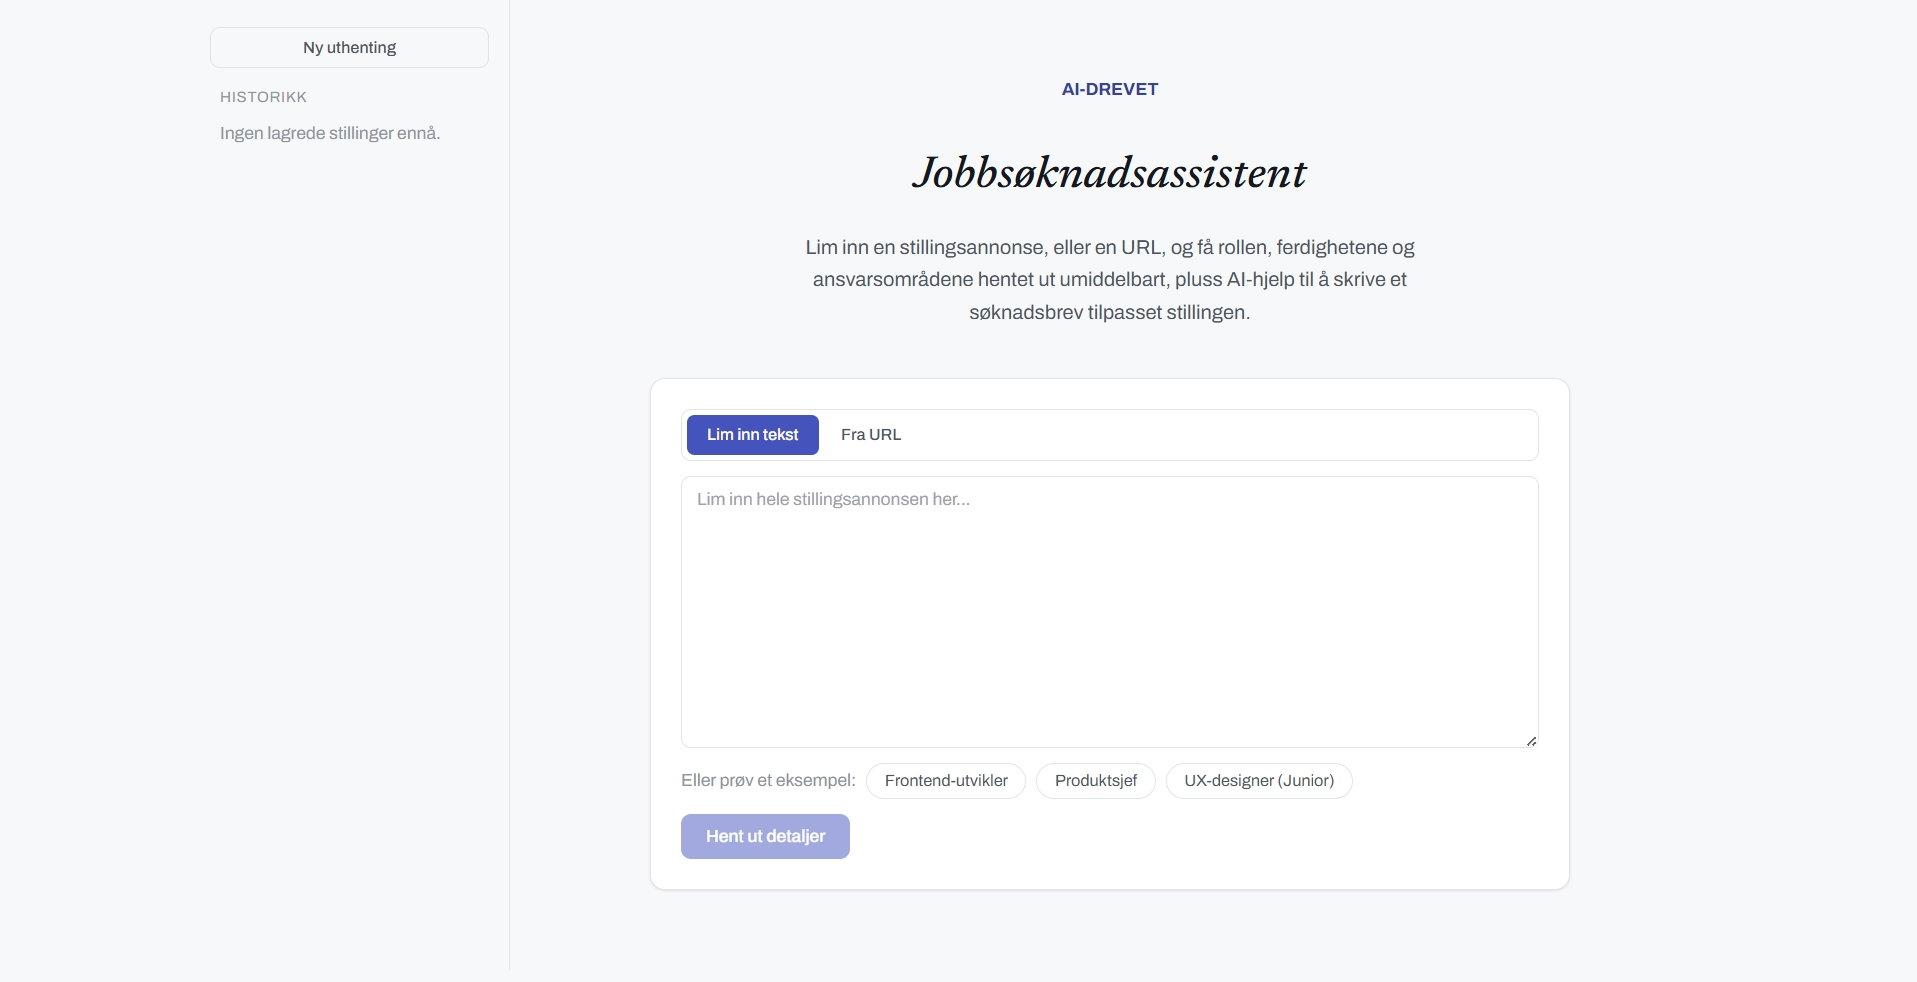
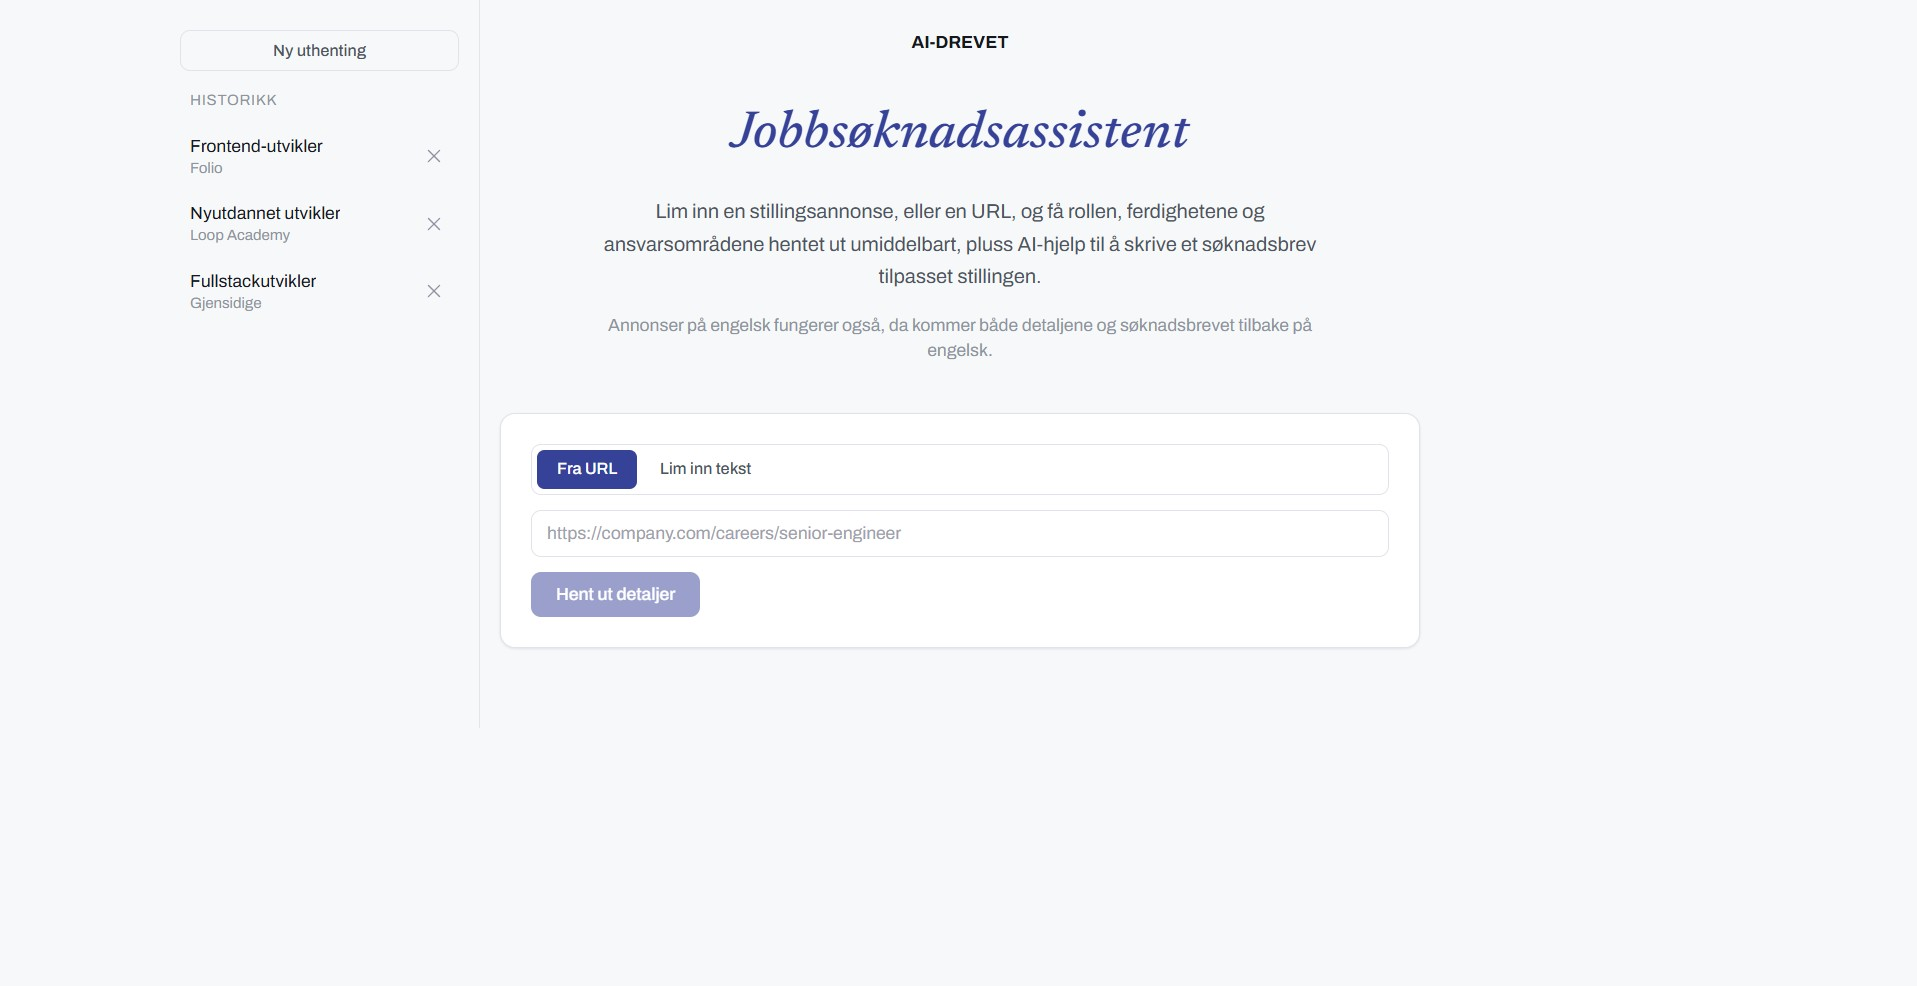
feat: clean up

diff --git a/src/components/Navbar.tsx b/src/components/Navbar.tsx
@@ -29,11 +29,6 @@ export default function Navbar() {
         </div>
 
         <div className="flex items-center gap-3">
-          <div className="flex items-center gap-2 rounded-full border border-accent/30 bg-accentTint px-3 py-1 font-mono text-[11px] text-accent">
-            <span className="h-1.5 w-1.5 animate-pulse2 rounded-full bg-accent" />
-            {t("nav.openToWork")}
-          </div>
-
           <div className="flex items-center overflow-hidden rounded-full border border-border font-mono text-[11px]">
             <button
               type="button"

diff --git a/src/components/Projects.tsx b/src/components/Projects.tsx
@@ -26,7 +26,7 @@ export default function Projects() {
             return (
               <div
                 key={project.slug}
-                className="group flex flex-col overflow-hidden rounded-[10px] border border-border bg-surface transition-all hover:-translate-y-0.5 hover:border-accent/40"
+                className="group flex flex-col overflow-hidden rounded-[10px] border border-border bg-surface transition-colors hover:border-accent/40"
               >
                 <Link
                   to={`/projects/${project.slug}`}
